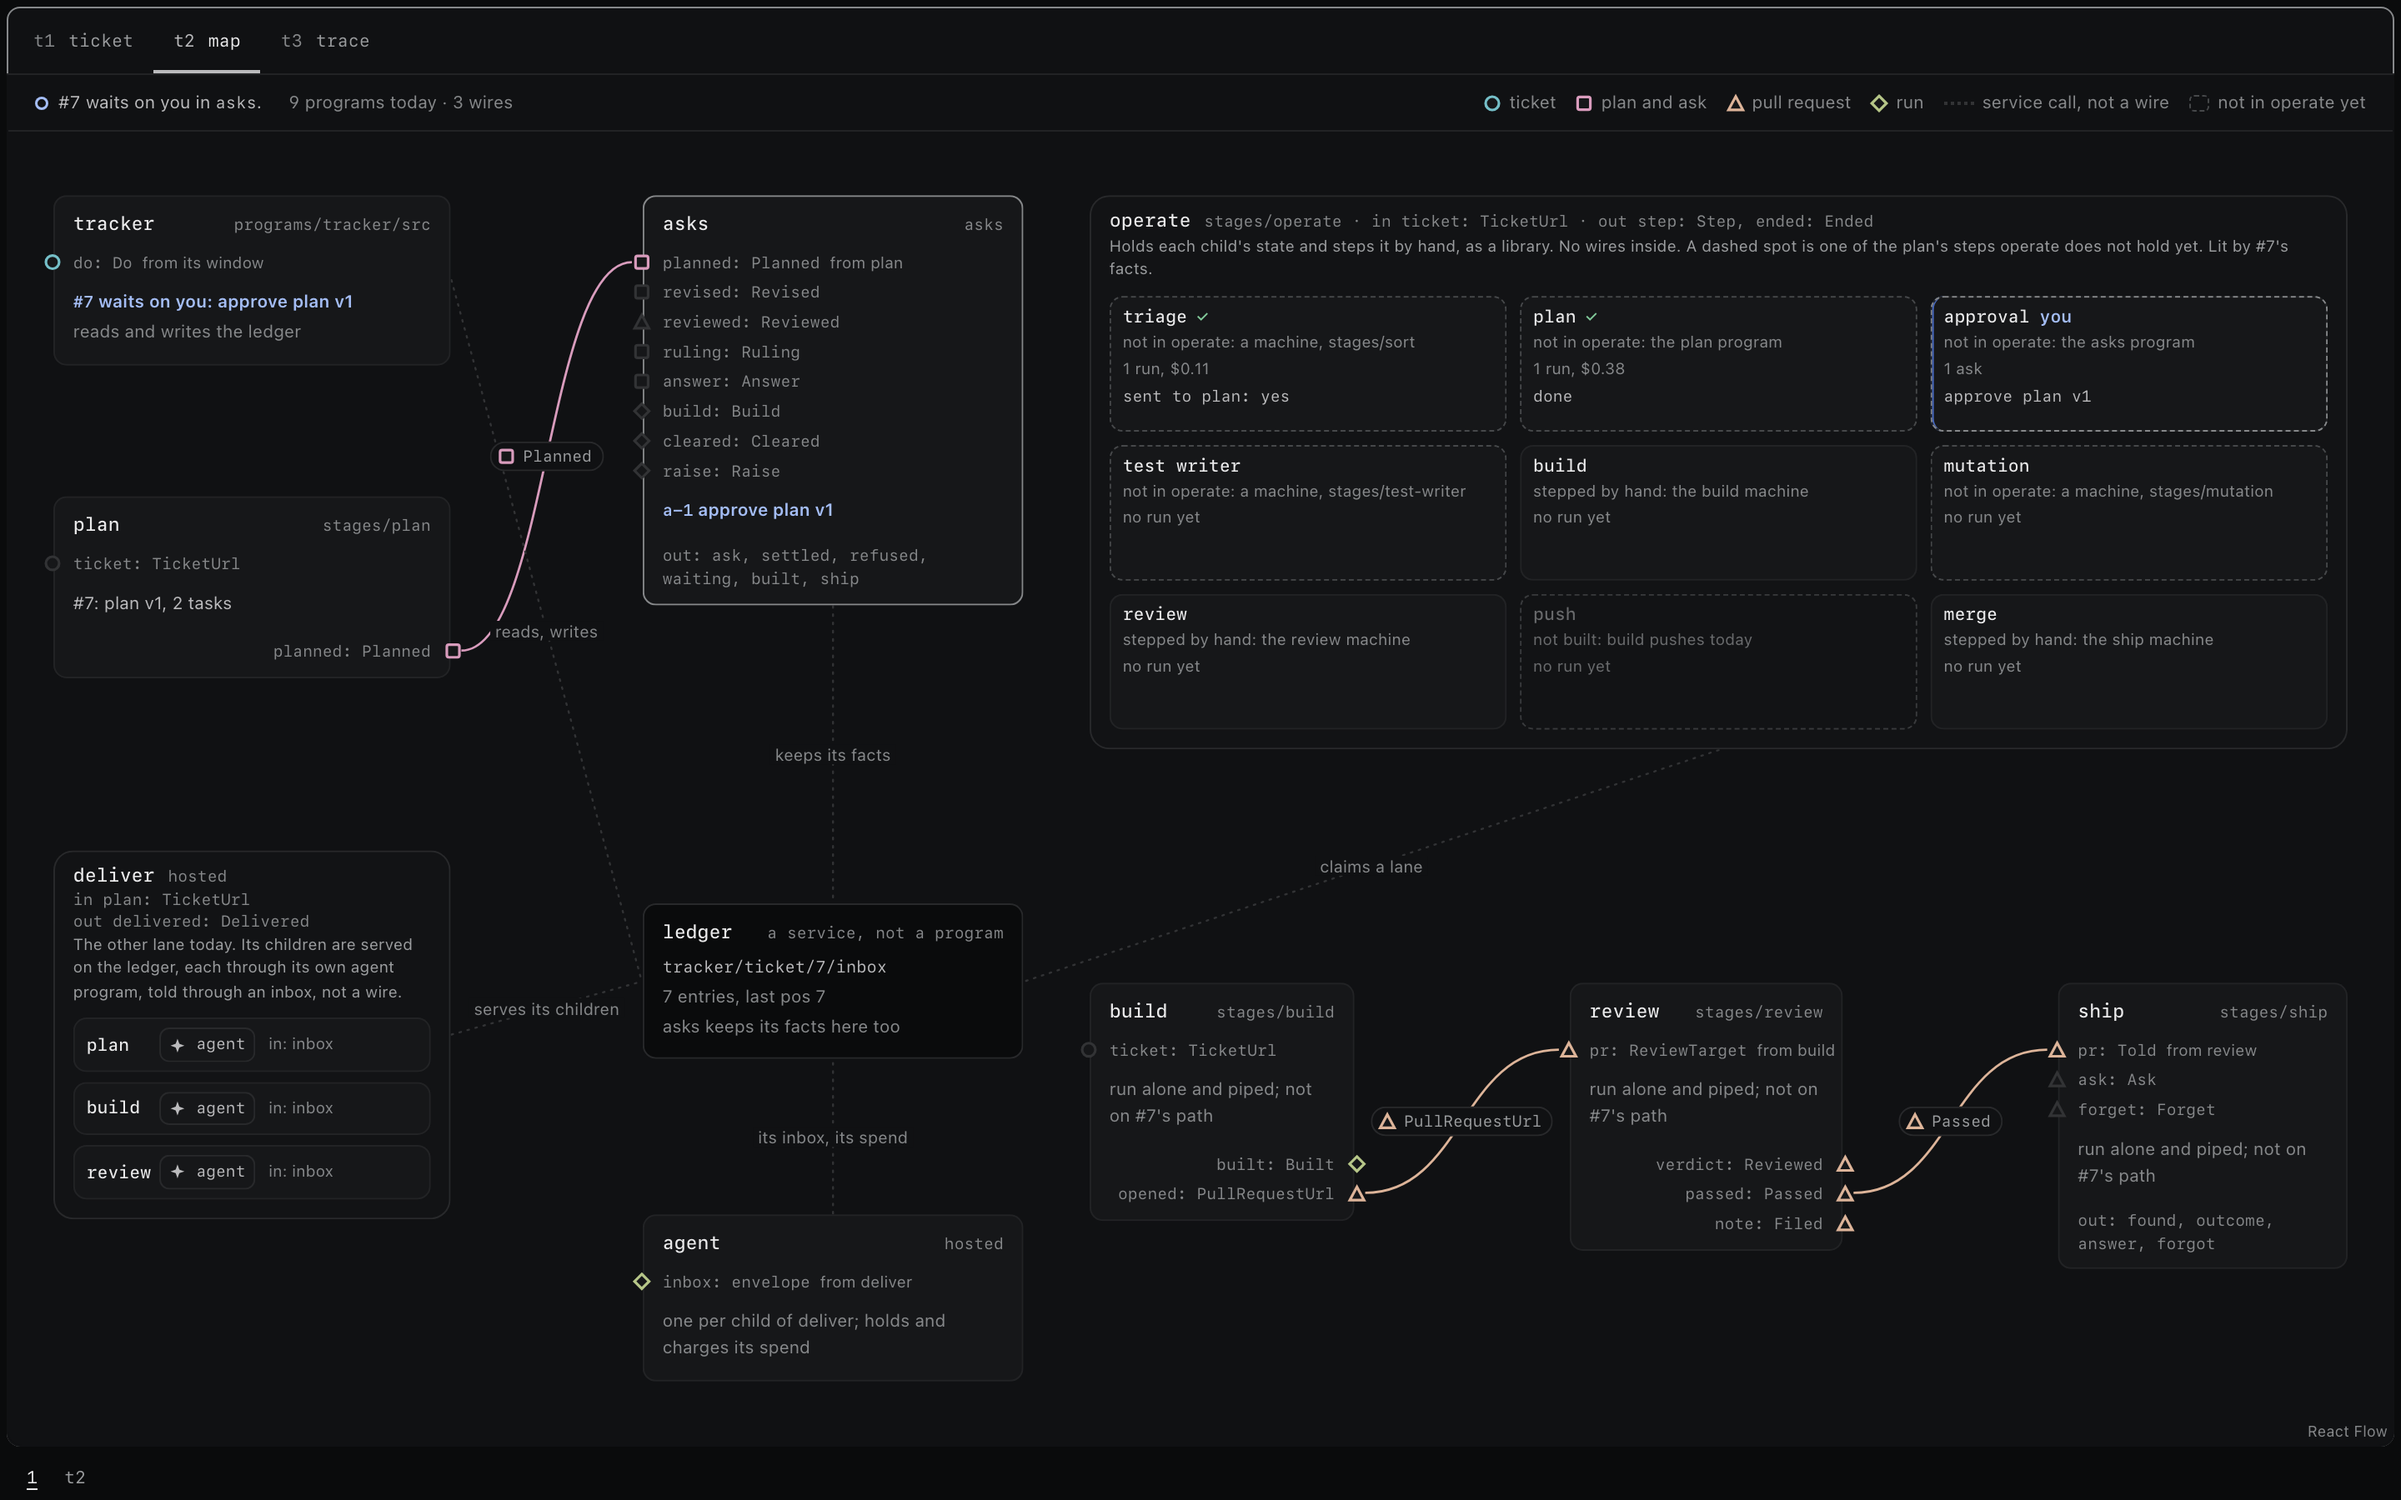
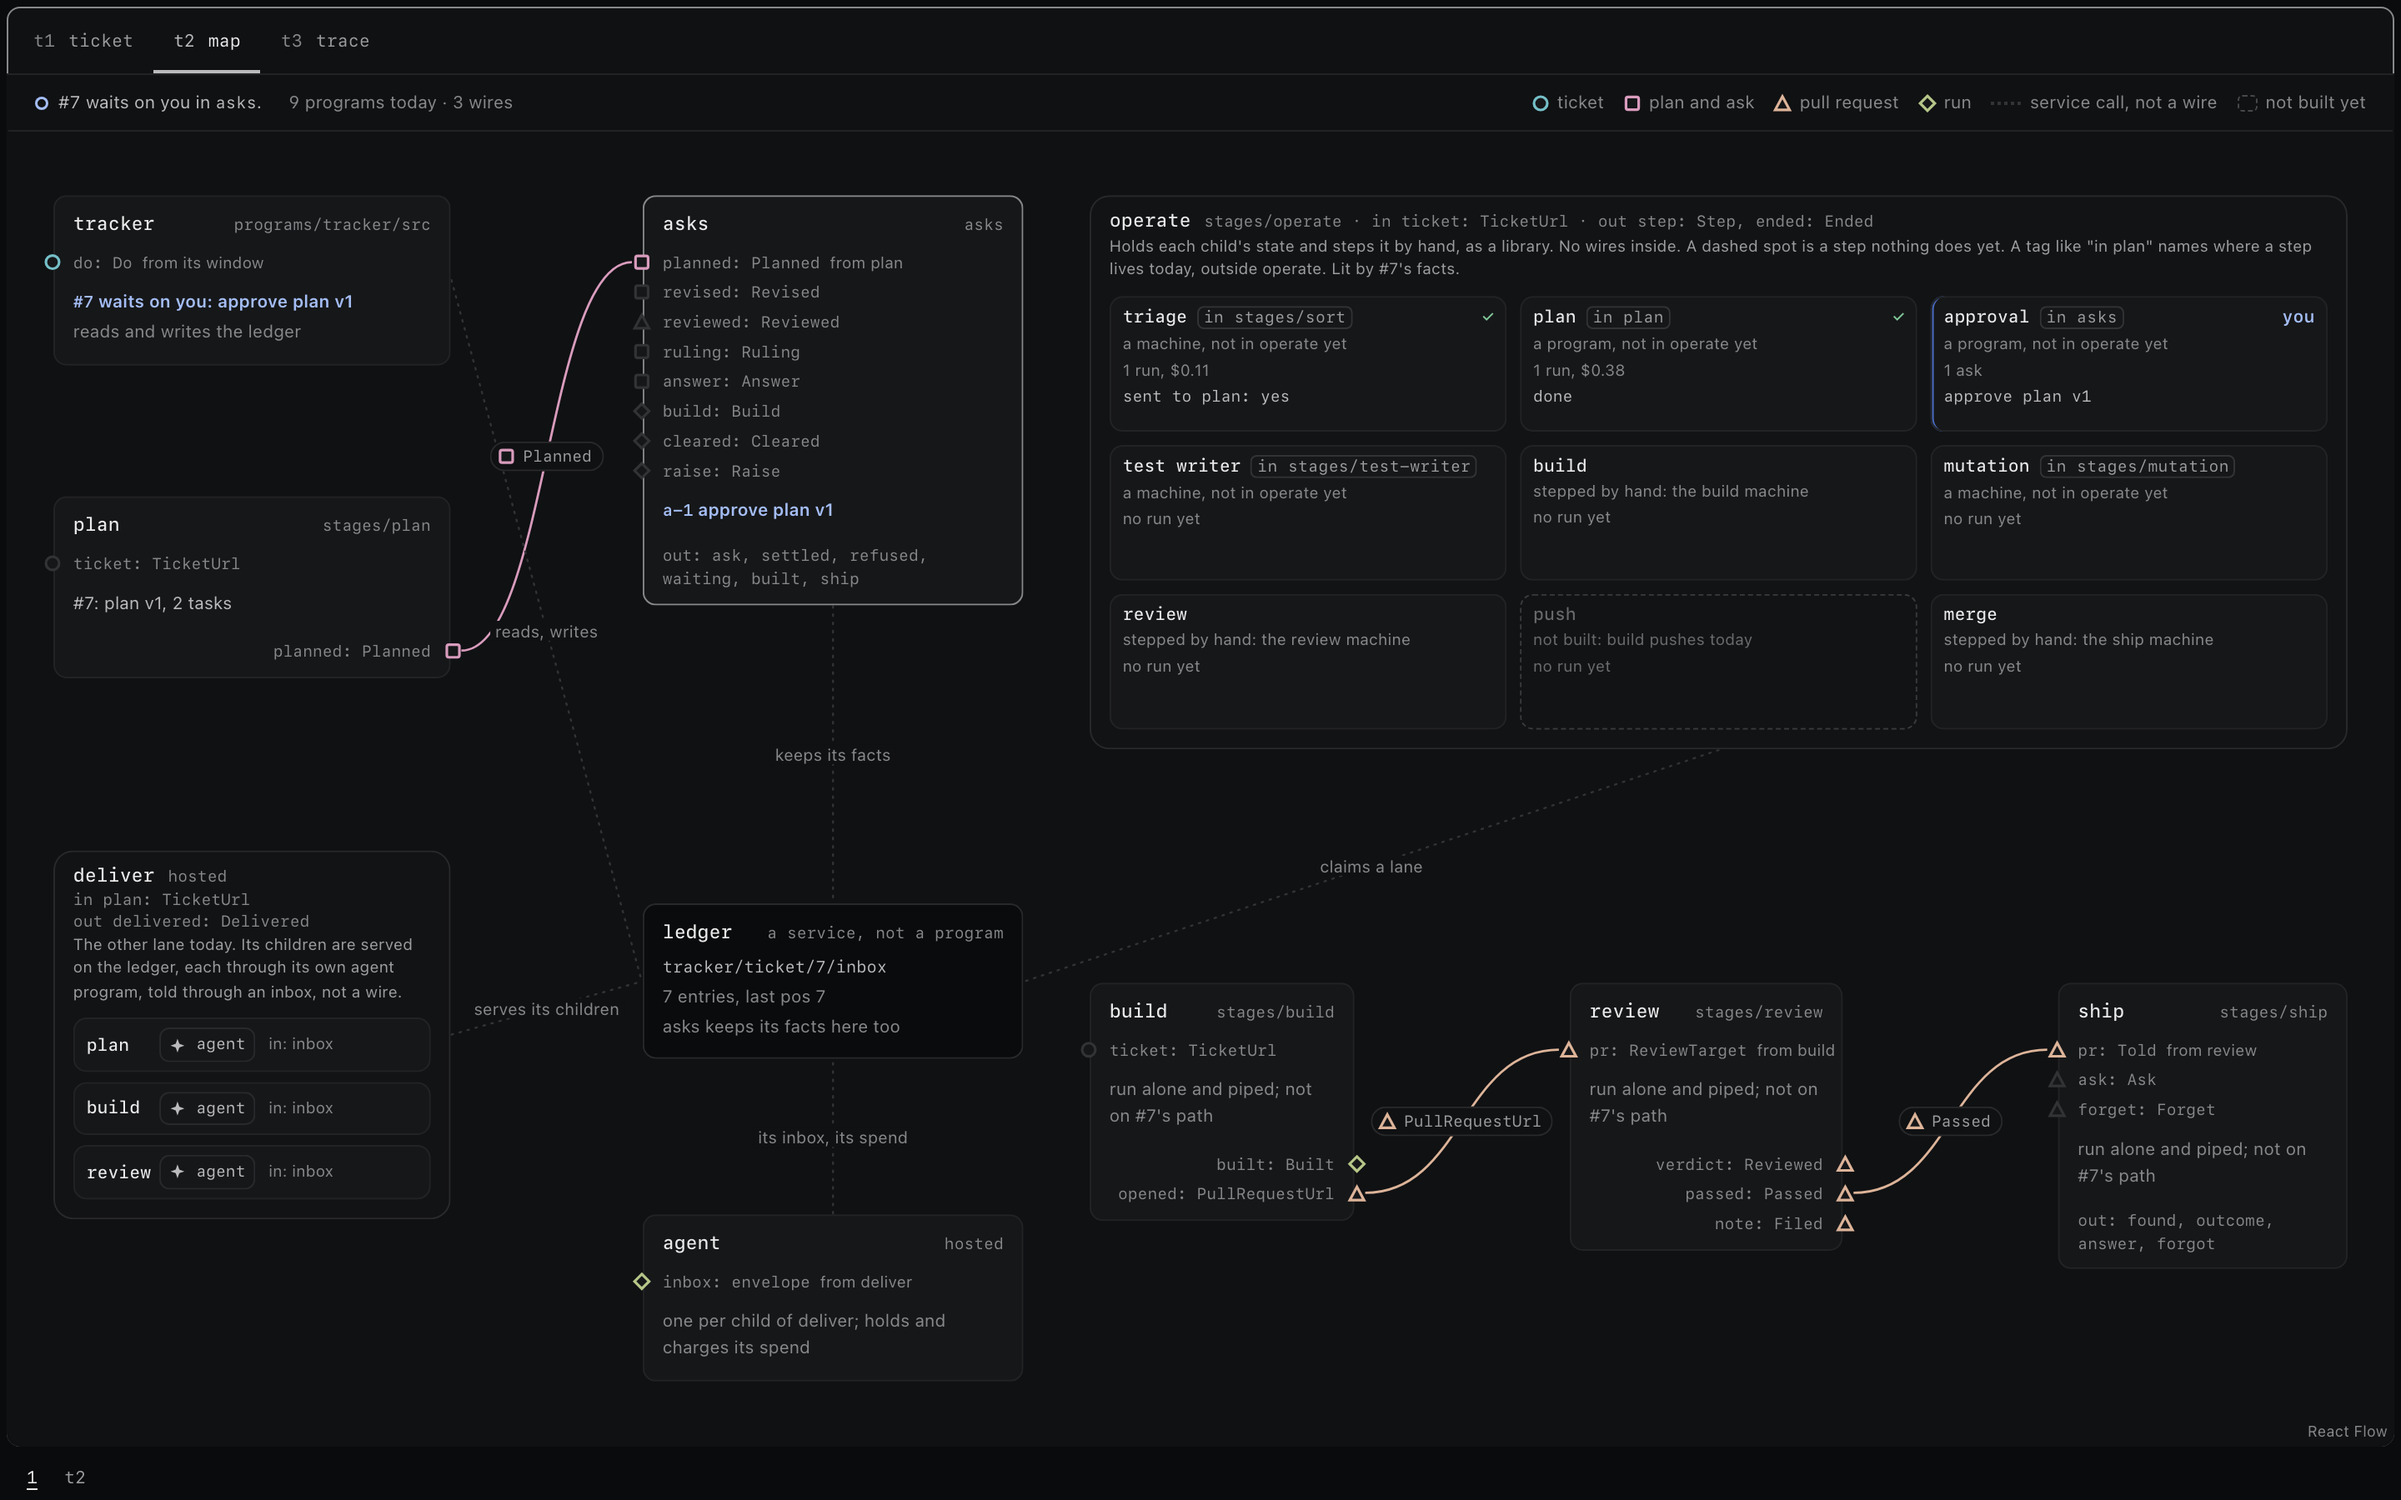
map: dashed means only "not built yet"; a step elsewhere gets a tag
A spot outside operate was dashed, the same as a step nothing does yet.
Now only push is dashed. triage, plan, approval, test writer and mutation
are solid, with a tag naming where they live, like "in plan".

Claude-Session: https://claude.ai/code/session_01KkDXw7U6k7vUsC5wpX5ED7

diff --git a/programs/map/src/window.tsx b/programs/map/src/window.tsx
@@ -42,7 +42,8 @@ import {
 // and each output on its right, shaped by what it carries. A typed wire is a curve from an
 // output to an input; a `Ledger` call is a dotted line, since nothing is piped. The operate box
 // holds the plan's nine spots, each lit by the ticket's facts: done, running, waiting on you,
-// stuck, not run yet. A spot operate does not hold is dashed; one nothing does yet is faint too.
+// stuck, not run yet. Dashed means only that nothing does the step yet; a step that lives outside
+// operate is solid, with a tag naming where.
 // Boxes sit at fixed spots; the canvas pans and zooms, and fits the tile when the tile resizes.
 
 type View = WindowProps<typeof map>["view"];
@@ -245,7 +246,7 @@ const whereWords = (where: Where): string => {
 		case "stepped":
 			return `stepped by hand: ${where.by}`;
 		case "apart":
-			return `not in operate: ${where.as}`;
+			return `a ${where.as}, not in operate yet`;
 		case "missing":
 			return `not built: ${where.note}`;
 	}
@@ -257,8 +258,7 @@ function Spot({step}: {readonly step: StepNow}) {
 	const where = SPOTS[step.step];
 	const cls = [
 		"spot",
-		where.kind === "stepped" ? "" : "nb",
-		where.kind === "missing" ? "nob" : "",
+		where.kind === "missing" ? "nb nob" : "",
 		step.state === "running" ? "run" : "",
 		step.state === "you" ? "you" : "",
 		step.state === "stuck" ? "stuck" : "",
@@ -269,6 +269,7 @@ function Spot({step}: {readonly step: StepNow}) {
 		<div className={cls} data-step={step.step}>
 			<span className="n">
 				{stepWords(step.step)}
+				{where.kind === "apart" ? <span className="tag">in {where.in}</span> : null}
 				{step.state === "done" ? (
 					<span className="w-done" role="img" aria-label="done">
 						✓
@@ -313,7 +314,8 @@ function OperateFrame({data}: NodeProps<Node<OperateData>>) {
 				</span>
 				<span className="how">
 					Holds each child's state and steps it by hand, as a library. No wires inside. A dashed
-					spot is one of the plan's steps operate does not hold yet.
+					spot is a step nothing does yet. A tag like "in plan" names where a step lives today,
+					outside operate.
 					{data.lit.number === null ? "" : ` Lit by #${data.lit.number}'s facts.`}
 				</span>
 			</div>
@@ -574,7 +576,7 @@ function Bar({lit}: {readonly lit: Lit}) {
 				</span>
 				<span>
 					<i className="nbl" aria-hidden="true" />
-					not in operate yet
+					not built yet
 				</span>
 			</span>
 		</div>

diff --git a/programs/map/src/map.ts b/programs/map/src/map.ts
@@ -162,20 +162,20 @@ export const LEDGER_CALLS: readonly Call[] = [
 /**
  * Where each of the plan's nine steps lives today, from the operate program's point of view.
  * `stepped`: operate holds it and steps it by hand, as a library. `apart`: it exists, but outside
- * operate. `missing`: nothing in code does it yet.
+ * operate, as a machine or a program, `in` the place named. `missing`: nothing in code does it yet.
  */
 export type Where =
 	| {readonly kind: "stepped"; readonly by: string}
-	| {readonly kind: "apart"; readonly as: string}
+	| {readonly kind: "apart"; readonly as: "machine" | "program"; readonly in: string}
 	| {readonly kind: "missing"; readonly note: string};
 
 export const SPOTS: {readonly [S in StepName]: Where} = {
-	triage: {kind: "apart", as: "a machine, stages/sort"},
-	plan: {kind: "apart", as: "the plan program"},
-	approval: {kind: "apart", as: "the asks program"},
-	test_writer: {kind: "apart", as: "a machine, stages/test-writer"},
+	triage: {kind: "apart", as: "machine", in: "stages/sort"},
+	plan: {kind: "apart", as: "program", in: "plan"},
+	approval: {kind: "apart", as: "program", in: "asks"},
+	test_writer: {kind: "apart", as: "machine", in: "stages/test-writer"},
 	build: {kind: "stepped", by: "the build machine"},
-	mutation: {kind: "apart", as: "a machine, stages/mutation"},
+	mutation: {kind: "apart", as: "machine", in: "stages/mutation"},
 	review: {kind: "stepped", by: "the review machine"},
 	push: {kind: "missing", note: "build pushes today"},
 	merge: {kind: "stepped", by: "the ship machine"},

diff --git a/apps/fabrika/src/window/window.css b/apps/fabrika/src/window/window.css
@@ -2139,6 +2139,19 @@ main.program:has(> .view) {
 	color: var(--text-primary);
 }
 
+.map-view .spot .n .tag {
+	font: 400 var(--fs-micro) / 1 var(--mono);
+	color: var(--text-muted);
+	padding: 2px 4px;
+	border-radius: var(--r-sm);
+	box-shadow: inset 0 0 0 1px var(--border-strong);
+	white-space: nowrap;
+}
+
+.map-view .spot .n > :is(.w-done, .w-you, .w-stuck, .dot) {
+	margin-inline-start: auto;
+}
+
 .map-view .spot .m2 {
 	color: var(--text-faint);
 }

diff --git a/programs/map/README.md b/programs/map/README.md
@@ -4,8 +4,8 @@ A map of today's programs in a tile of its own, drawn with React Flow (`@xyflow/
 box is a real program with its real input and output names and types. A wire is drawn only where
 one program's output is piped into another's input in code today. The ledger is a service, not a
 program, so the boxes that call it get a dotted line, not a wire. Inside operate, the plan's
-nine steps sit as spots: solid where operate steps that machine by hand, dashed where the step
-lives outside operate, faint where nothing does it yet.
+nine steps sit as spots. Dashed means one thing only: nothing does that step yet. A step that
+lives outside operate is solid, with a tag naming where it lives, like `in plan`.
 
 ```ts
 import {PROGRAMS, WIRES, SPOTS} from "@tea-fabrika/map";
